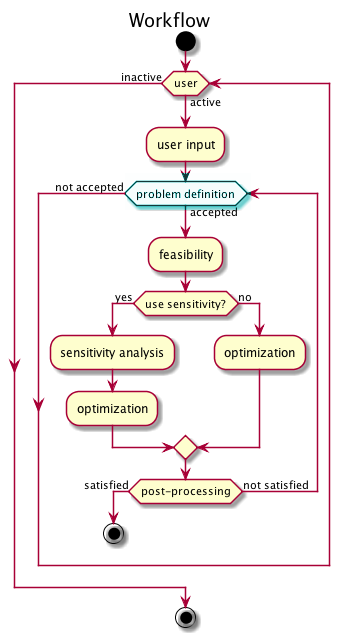
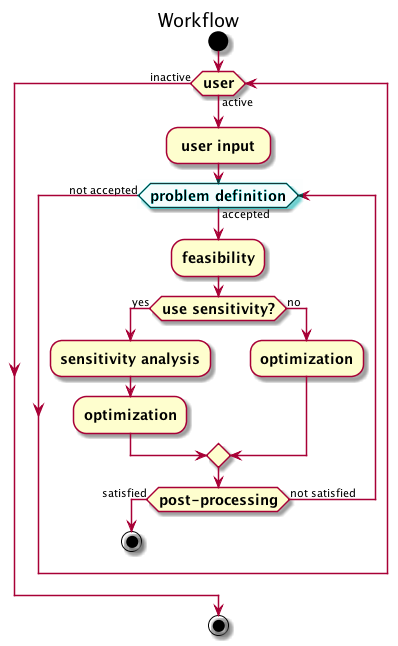
Presentation workflow bolded, and also Report revisions.

Changed region(s): [[0.0294, 0.0, 1.0, 1.0]]

diff --git a/Report/Report.tex b/Report/Report.tex
@@ -197,7 +197,7 @@ Given an input of objectives and constraints on those objectives which are both 
 			\end{equation}
 Here, $\mathbf{x}$ is the set of independent variables for the problem. In the context of spring design the independent variables are the spring parameters, which we also call design variables in the context of optimization. The function $F(\mathbf{x})$ is the objective function that we try to optimize. For spring design this function can consist of a single spring attribute or any weighted linear combination of attributes. Lastly, the function $\mathbf{G}(\mathbf{x})$ is the set of constraint functions restricting the optimization problem. For spring design, this set can consist of any combination of bounds on the design variables and bounds on the spring attributes. 
 
-To solidify this formulation, consider the acceleration switch example provided in the introduction. Suppose we wish to minimize the weighted sum of the spring rate ($k$) and the spring index ($c$) with respect to the inner diameter ($d_{\text{i}}$) and wire diameter ($d_{\text{w}}$) of the spring. Suppose we must satisfy a lower bound on the wire diameter ($d_{\text{w,min}}$), an upper bound on the inner diameter ($d_{\text{i,max}}$), and an additional constraint that the coil binding gap ($g$) is greater than the value $g_{\text{min}}$. Composing this problem mathematically gives
+To solidify this formulation, consider the acceleration switch example provided in the introduction. Suppose we wish to minimize the weighted sum of the spring rate ($k$) and the spring index ($C$) with respect to the inner diameter ($d_{\text{i}}$) and wire diameter ($d_{\text{w}}$) of the spring. Suppose we must satisfy a lower bound on the wire diameter ($d_{\text{w,min}}$), an upper bound on the inner diameter ($d_{\text{i,max}}$), and an additional constraint that the coil binding gap ($g$) is greater than the value $g_{\text{min}}$. Composing this problem mathematically gives
 				\begin{equation}
  					\begin{gathered}
  						\min_{d_{\text{i}}, d_{\text{w}}} \ w_{1}k + w_{2}c \\
@@ -245,7 +245,7 @@ During the first step of our work flow, a spring designer (herein known as the u
 \subsection{Problem Definition}
 \label{sec:Problem_Definition}
 
-Generally, the user would like to optimize some of the spring attributes introduced in Section~\ref{sec:Springs}, while satisfying the problem's physical design constraints. In the case of an acceleration switch example in Section~\ref{sec:Constrained_Optimization}, the user would like to achieve the smallest possible weighted sum of spring rate ($k$) and spring index ($c$), while satisfying the physical dimensions of the spring and the constraint on the coil binding gap $g$. Thus, the next step in our workflow is to take the user input and formulate an optimization problem that includes an objective, a set of design variables and constraints. For the acceleration switch, this results in the problem defined in~(\ref{eq:Problem}). 
+Generally, the user would like to optimize some of the spring attributes introduced in Section~\ref{sec:Springs}, while satisfying the problem's physical design constraints. In the case of an acceleration switch example in Section~\ref{sec:Constrained_Optimization}, the user would like to achieve the smallest possible weighted sum of spring rate ($k$) and spring index ($C$), while satisfying the physical dimensions of the spring and the constraint on the coil binding gap $g$. Thus, the next step in our workflow is to take the user input and formulate an optimization problem that includes an objective, a set of design variables and constraints. For the acceleration switch, this results in the problem defined in~(\ref{eq:Problem}). 
 
 In order to run the design analysis, we place some restrictions on the form of this optimization problem. First, the optimization's objective function must be specified as a weighted sum of minimums and maximums. While other methods for multi-criteria optimization exist, including these in our scheme has been left to future work.
 
@@ -258,7 +258,7 @@ The second restriction, based on discussions with engineers experienced with spr
 	 Permissible Design Variables & Permissible Attributes for Optimization \\
 	 \hline
      	The spring's natural length ($L_{\text{free}}$) 					& Spring Rate ($k$) \\
-	    The spring's resting length ($L_{\text{open}}$) 				& Spring Index ($c$)  \\
+	    The spring's resting length ($L_{\text{open}}$) 				& Spring Index ($C$)  \\
 		Spring's minimum compression length  ($L_{\text{hard}}$) 	& Preloaded Force ($F_{open}$) \\
 		Total spring coil ($N_{\text{t}}$)    						& Coil Binding Gap ($g$) \\
 		Spring's inner diameter ($d_{\text{i}}$)    					& Buckling Slenderness Ratio ($\lambda$) \\
@@ -394,12 +394,12 @@ To demonstrate the workflow for optimal spring design and the robustness of our 
 	 					\min_{} 0.5 \times\left(\frac{k}{k_{max}}\right) + 0.5 \times (\frac{C}{C_{max}}) \\
 	 					\mbox{subject to} \\%\mathbf{G}(\mathbf{x}) \le \mathbf{0}, 
 						\begin{split}
-							 d_{i} + 2 \times d_{w} \leq 60e-3\\
+							 d_{i} + 2 \times d_{w} \leq 60 \times 10^{-3} mm\\
 							 g_{min} - \frac{L_{hard} - N_{t}d_{w}}{N_{t}-1} \leq 0\\
 							 \frac{L_{free}}{d_{i} + d_{w}} - \pi \sqrt{\frac{2(2 \nu + 1)}{\nu + 2}} \leq 0\\
 							 \frac{G(L_{free} - L_{hard})}{4 \pi (N_{t} - 2) } \left[\frac{d_{w} (4d_{i}^{2} + 9.46d_{i} d_{w} + 3 d_{w}^{2})}{d_{i}(d_{i}+d_{w})^{3}}\right] - UTS \leq 0\\
-							 20e-3 \leq d_{i} \leq 30e-3\\	 
-							 1e-3 \leq d_{w} \leq 5e-3\\	 
+							 20 \times 10^{-3} mm \leq d_{i} \leq 30 \times 10^{-3} mm\\	 
+							 1 \times 10^{-3} mm \leq d_{w} \leq 5 \times 10^{-3} mm\\	 
 							 9 \leq N_{t} \leq 17\\	 
 						\end{split}
 					\end{gathered}
@@ -454,7 +454,7 @@ From the sensitivity indices, it can be observed that all the design variables h
 
 	\subsubsection{Optimization}
 	
-	As stated in Section \ref{sec:Optimization}, DIRECT algorithm is used for optimization and the optimum design point is obtained as 
+	As stated in Section \ref{subsec:Optimization}, DIRECT algorithm is used for optimization and the optimum design point is obtained as 
 	\begin{center}
 	$\mathbf{x_{opt}} =
 	\left[
@@ -471,11 +471,11 @@ $
 		
 \newpage
 %-----------------------------------Computational Experiments.2-----------------------------------%
-\vspace{-.4in}
+
 \subsection{Case 2:}
 \label{subsec:Case2}
 %Case_56_3891011
-
+\vspace{-.1in}
 \begin{description}[leftmargin=!,labelwidth=\widthof{\bfseries Design Variables:}, labelindent = 1cm]
 	\item[Objectives:] Minimize spring rate and spring index.\\
 	\item[Constraints:] Relation on inner, wire, and outer diameter, diametral expansion, coil binding gap, buckling slenderness, and maximum shear stress, stress relaxation. \\
@@ -518,7 +518,7 @@ $
 	 					\min_{} 0.5 \times\left(\frac{k}{k_{max}}\right) + 0.5 \times (\frac{C}{C_{max}}) \\
 	 					\mbox{subject to} \\%\mathbf{G}(\mathbf{x}) \le \mathbf{0}, 
 						\begin{split}
-							 d_{i} + 2 \times d_{w} \leq 60e-3\\
+							 d_{i} + 2 \times d_{w} \leq 60 \times 10^{-3} mm\\
 							 g_{min} - \dfrac{L_{hard} - N_{t}d_{w}}{N_{t}-1} \leq 0\\
 							 \frac{L_{free}}{d_{i} + d_{w}} - \pi \sqrt{\frac{2(2 \nu + 1)}{\nu + 2}} \leq 0\\
 							 d_{\text{w}} + \sqrt{(d_{\text{i}} + d_{\text{w}})^{2} + \frac{p^{2} - d_{\text{w}}}{\pi^{2}}} - d_{o}^{max} < 0\\
@@ -526,8 +526,8 @@ $
 							 \frac{4}{G_{sr}\theta d_w^4}\int_0^{d_w} r^2 \left( (G_{sr}\theta r)^{-n} + \frac{c}{k} G_{sr}nt^k \right)^{-\frac{1}{n}} \,\mathrm{d} r \ge .85\\
 							 \mbox{where, } \quad
 							  \theta = {2s\over \pi N_a (d_i+d_w)^2}\\
-							 20e-3 \leq d_{i} \leq 30e-3\\	 
-							 1e-3 \leq d_{w} \leq 5e-3\\	 
+							 20 \times 10 ^{-3} mm \leq d_{i} \leq 30 \times 10^{-3} mm\\	 
+							 1 \times 10^{-3} mm \leq d_{w} \leq 5 \times 10^{-3} mm\\	 
 							 9 \leq N_{t} \leq 17\\	 
 						\end{split}
 					\end{gathered}
@@ -587,7 +587,7 @@ From the sensitivity indices, it can be observed that all the design variables h
 
 \subsubsection{Optimization}
 	
-	As stated in Section \ref{sec:Optimization}, DIRECT algorithm is used for optimization and the optimum design point is obtained as 
+	As stated in Section \ref{subsec:Optimization}, DIRECT algorithm is used for optimization and the optimum design point is obtained as 
 	\begin{center}
 	$\mathbf{x_{opt}} =
 	\left[
